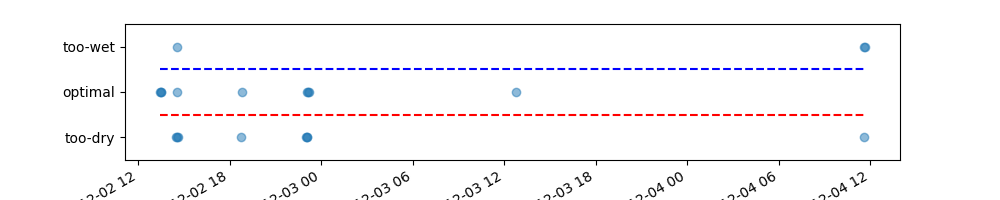
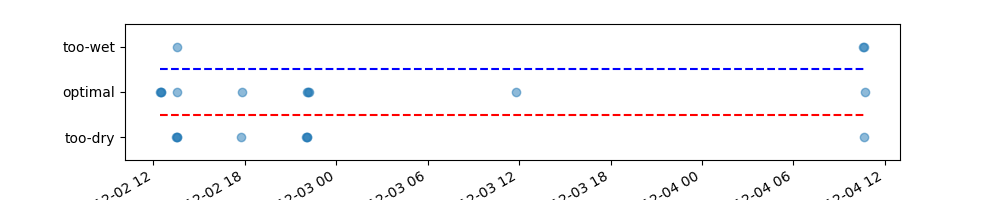
Update

diff --git a/index.html b/index.html
@@ -1,1 +1,1 @@
-<h >Lawn moisture monitor</h><br ></br><h4 >last weeks trend:</h4><img src="moisture-trend.png"></img><br ></br><p >Current moisture content: high</p><p >Suggested action: don't water the lawn</p>
+<h >Lawn moisture monitor</h><br ></br><h4 >last weeks trend:</h4><img src="moisture-trend.png"></img><br ></br><p >Current moisture content: optimal</p><p >Suggested action: water if sunny</p>

diff --git a/main.py b/main.py
@@ -25,7 +25,7 @@ def run():
 			update_html()
 			lawn_notification()
 			#add full path if push.sh not found
-			os.system("/Users/lukaselerson/Documents/cs370/cs370team.github.io/push.sh") #This can't happen too frequently or we'll run into issues both with github and with readings getting lost
+			os.system(push_path) #This can't happen too frequently or we'll run into issues both with github and with readings getting lost
 			sleep(1)
 
 
